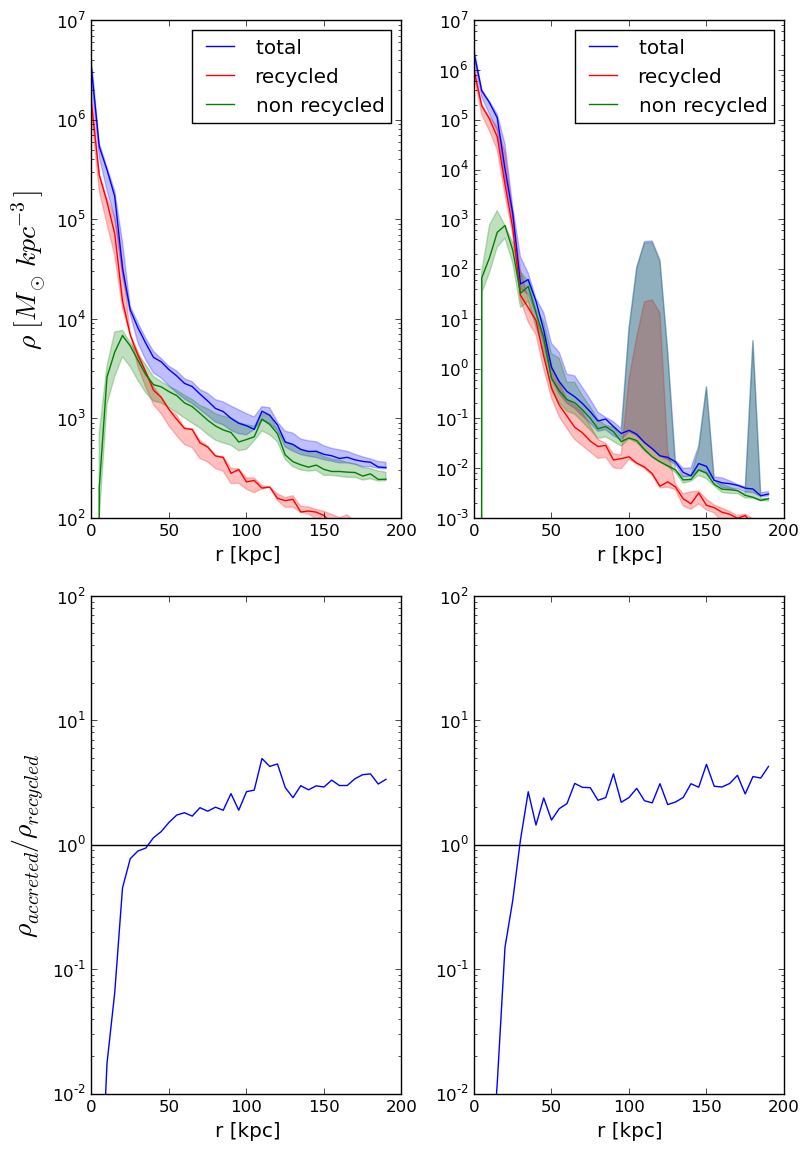
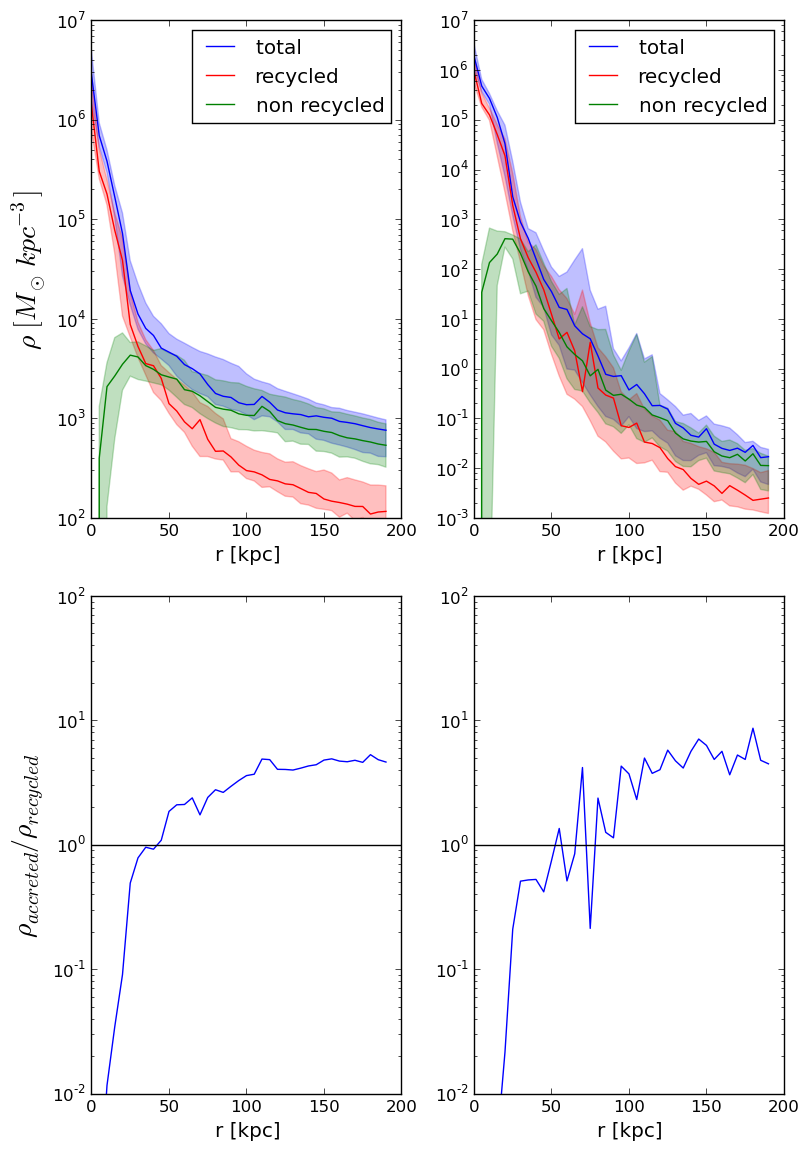
fix density_profiles again

diff --git a/1/density_profiles_HI.py b/1/density_profiles_HI.py
@@ -17,7 +17,7 @@ bins = np.arange(0, 200, 5)
 profiles = np.zeros(3, dtype=object)
 HI_profiles = np.zeros(3, dtype=object)
 
-for i, args in enumerate(utils.combinations[:3]):
+for i, args in enumerate(utils.combinations):
     halo = args[0]
     definition = 'ism'
 
